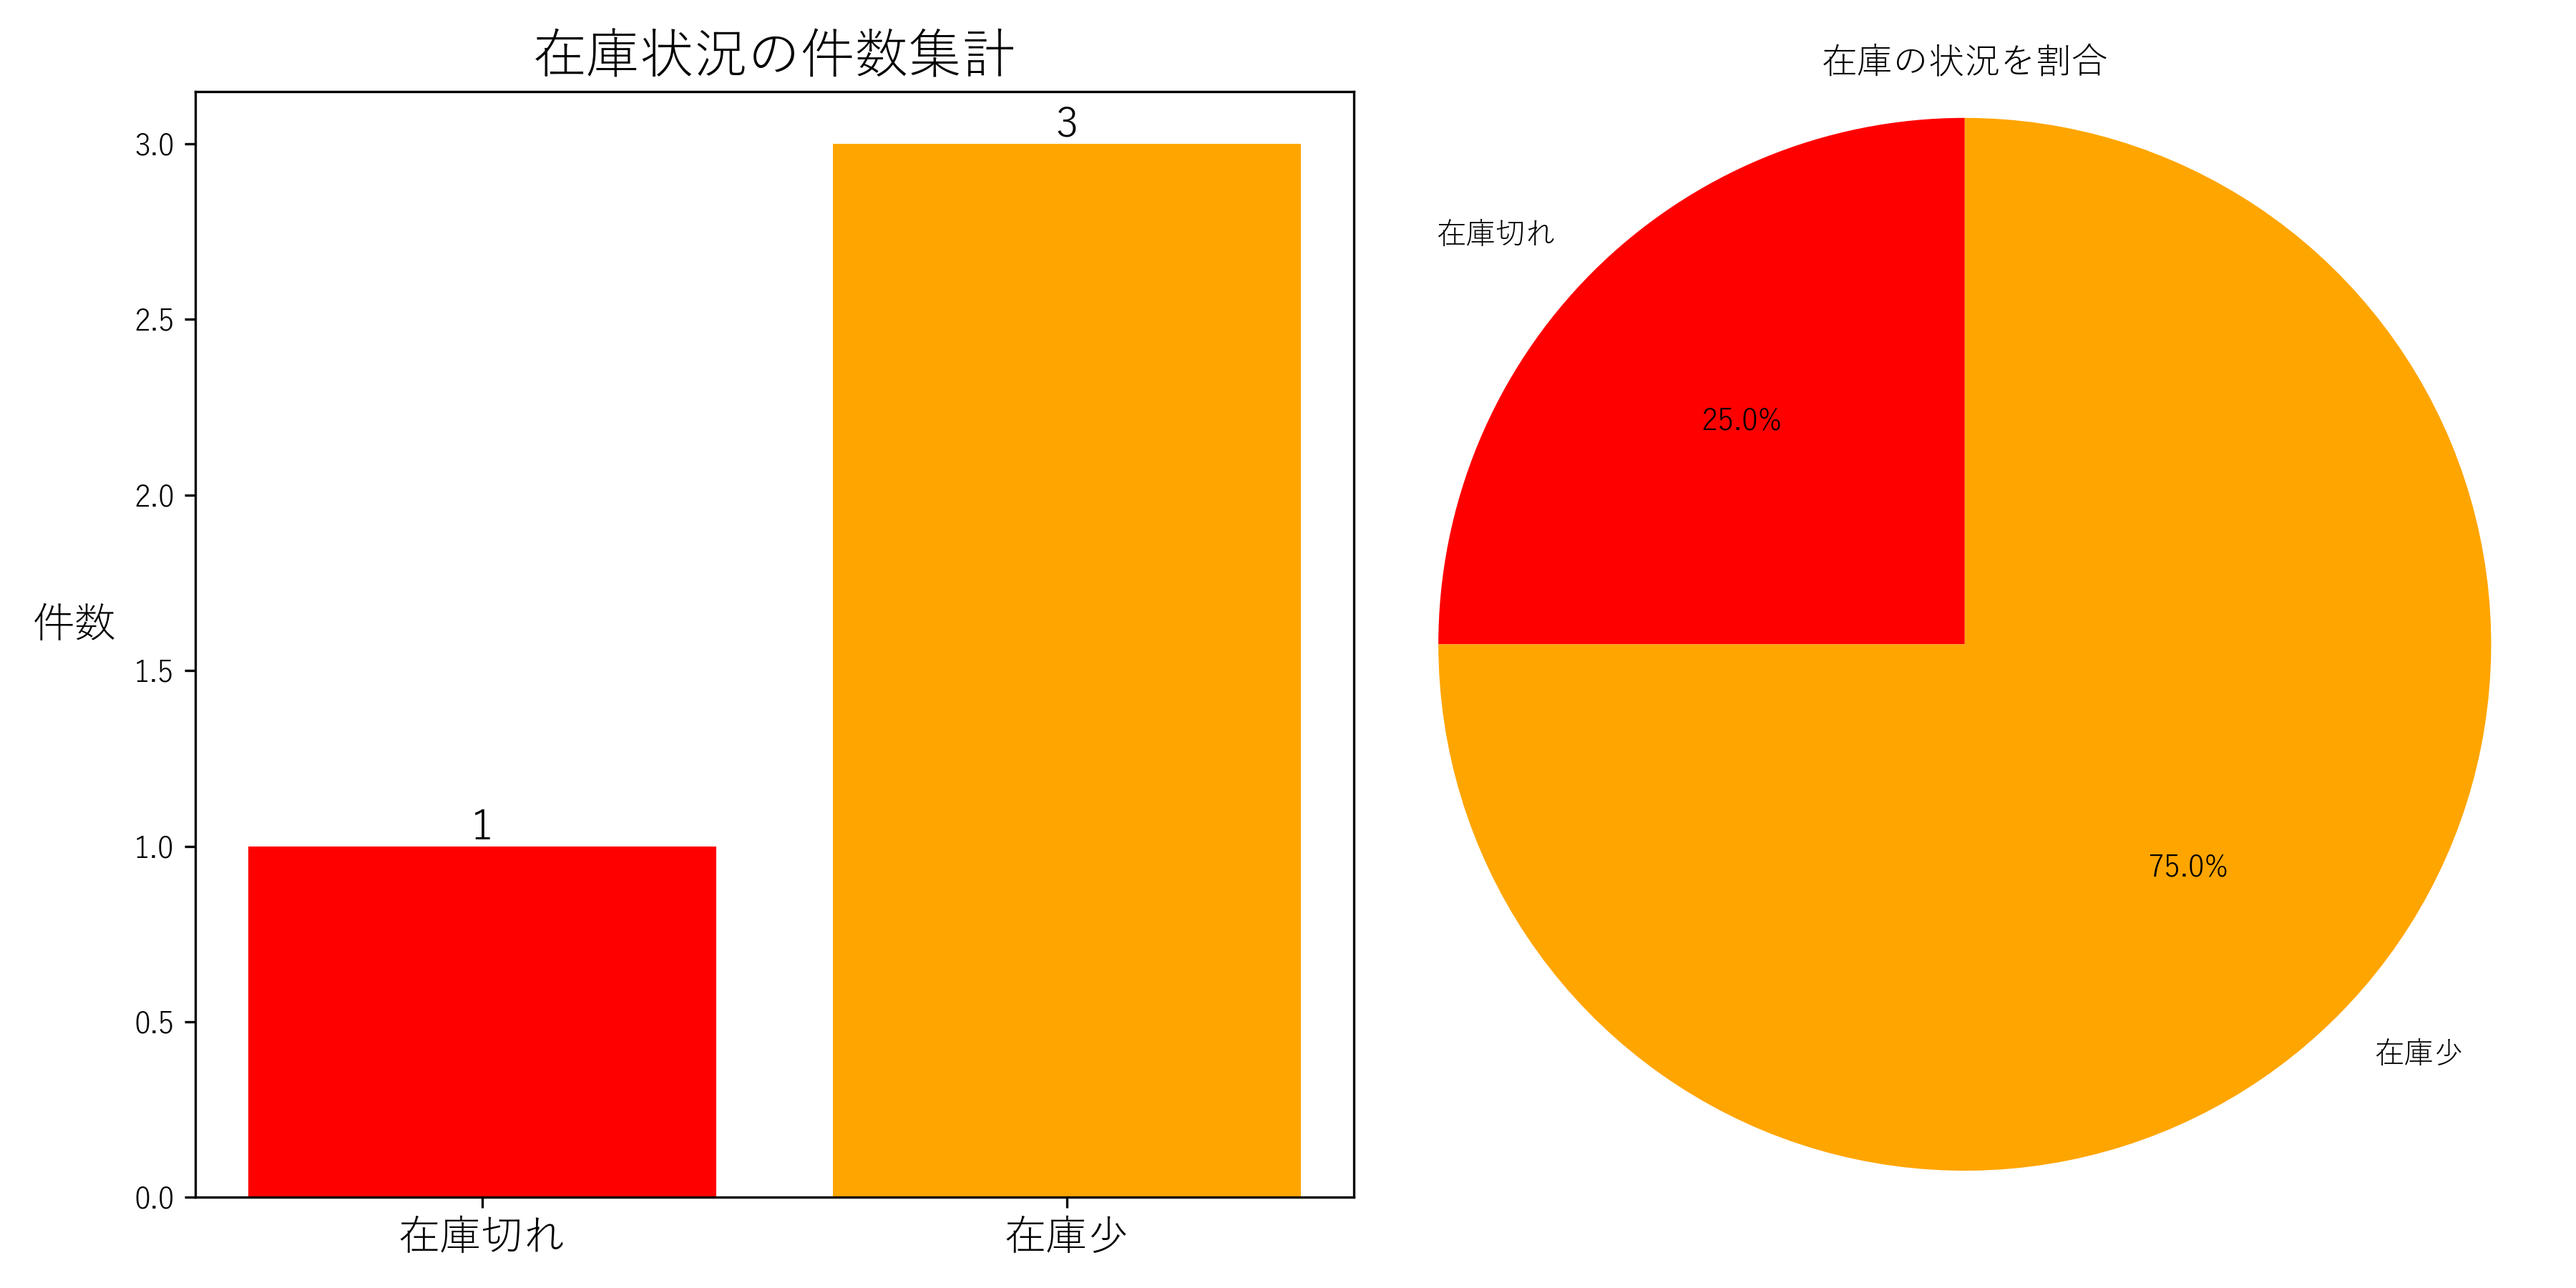
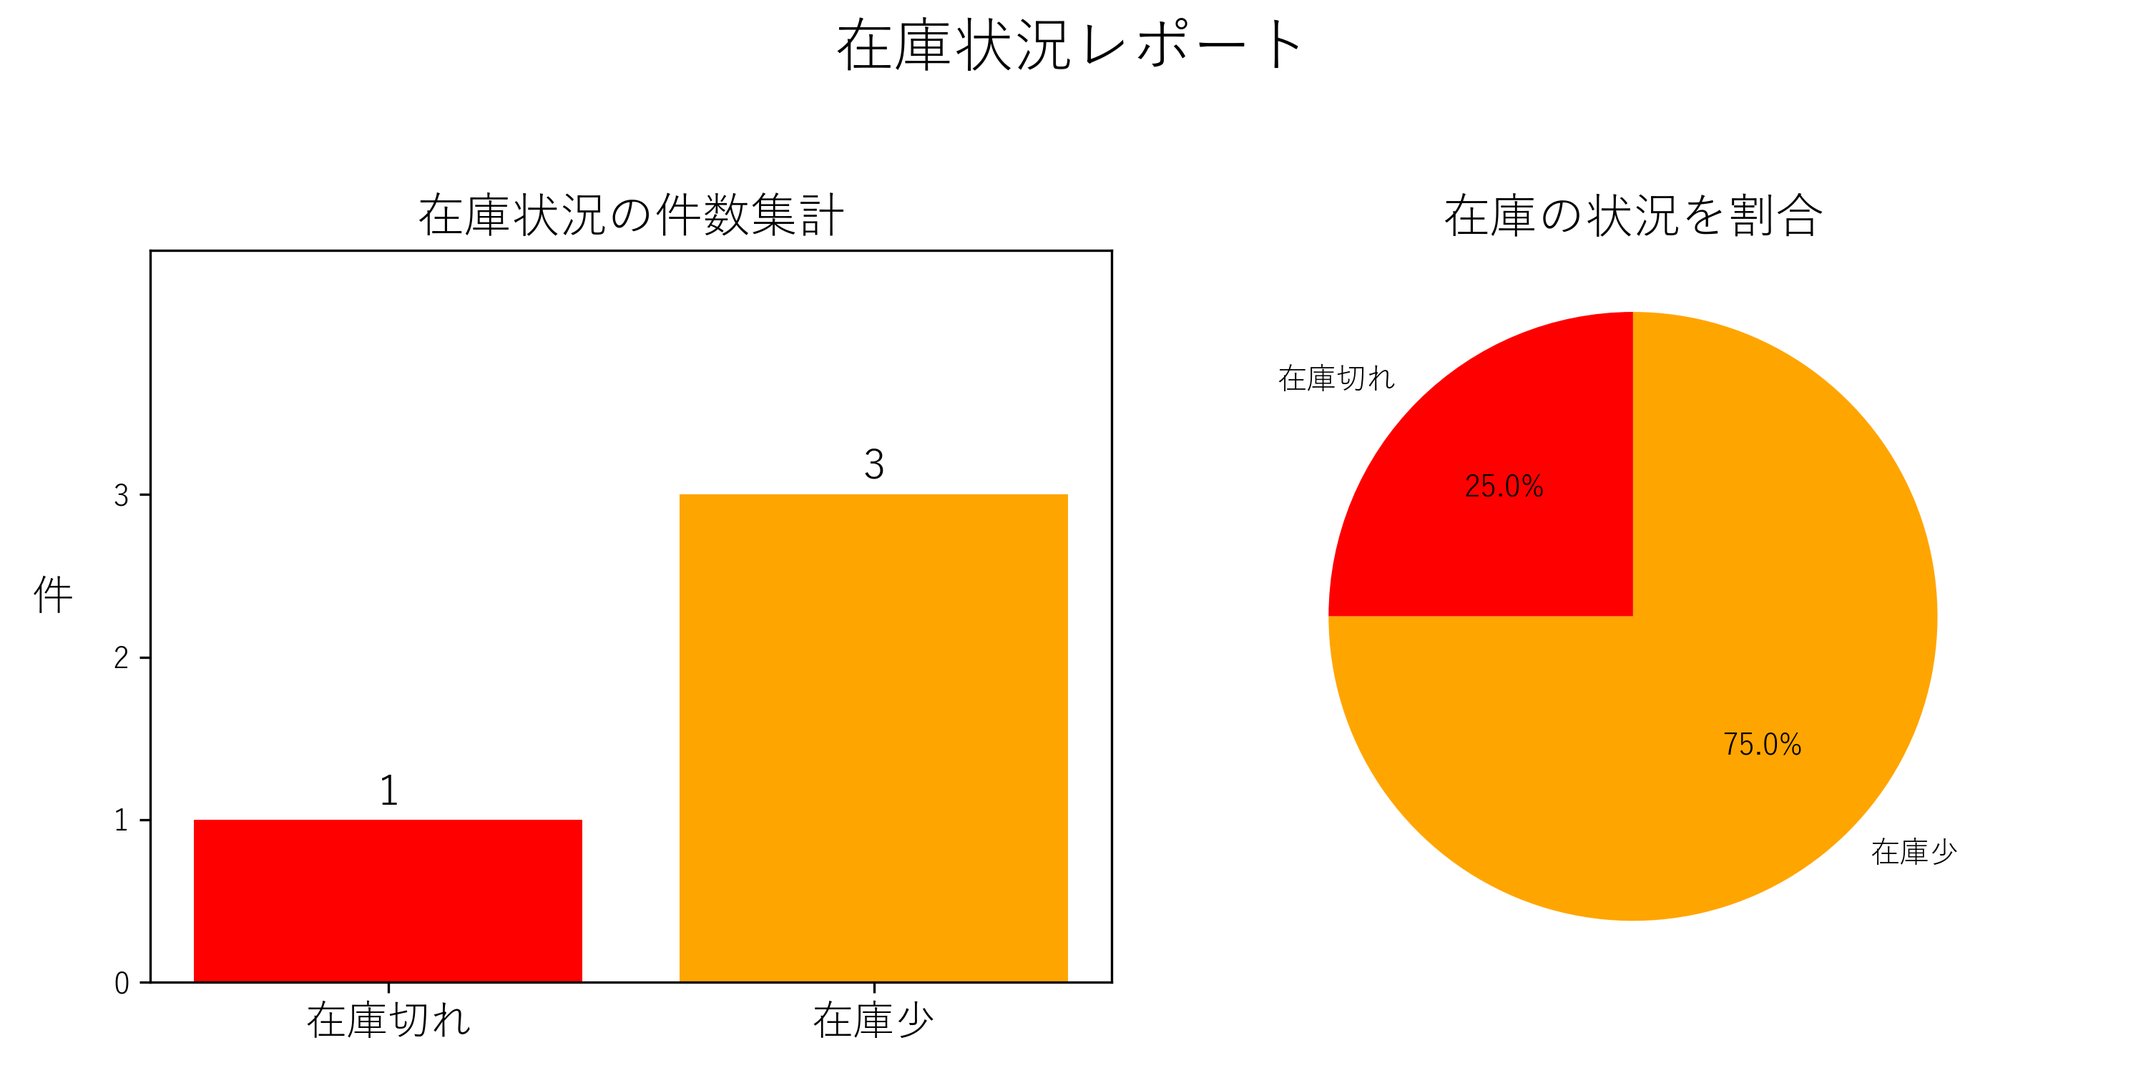
グラフの見た目を調整して最終版を反映

diff --git a/analyze_inventory.py b/analyze_inventory.py
@@ -26,12 +26,15 @@ def save_stock_graph(out_of_stock_count, low_stock_count):
     labels = ["在庫切れ", "在庫少"]
     values = [out_of_stock_count, low_stock_count]
 
-    plt.figure(figsize=(12, 6), dpi=120)  #横に二つ並べるため横長にする
+    plt.figure(figsize=(10, 5), dpi=120)  #横に二つ並べるため横長にする
 
     plt.subplot(1, 2, 1)  #１行２列の１つめ（左）
 
      #棒グラフを作成して棒の情報を受け取る
     bars = plt.bar(labels, values, color=["red", "orange"])  #色指定
+
+    plt.ylim(0, max(values) + 1.5)  #上に余白を作る
+    plt.yticks(range(0, max(values) +1))
 
     plt.xticks(fontsize=14)  #横軸ラベルの文字を大きくする
 
@@ -40,7 +43,7 @@ def save_stock_graph(out_of_stock_count, low_stock_count):
         height = bar.get_height()  #棒の高さ（件数）を取得
         plt.text(
             bar.get_x() + bar.get_width() / 2,  #棒の中央値
-            height,  #棒の高さの位置
+            height + 0.05,  #棒の高さの位置
             f"{int(height)}",  #表示する文字
             ha="center",  #横方向は中央ぞろえ
             va="bottom",  #縦方向は棒の上に置く
@@ -48,8 +51,8 @@ def save_stock_graph(out_of_stock_count, low_stock_count):
         )
 
     #タイトルと軸ラベル
-    plt.title("在庫状況の件数集計", fontsize=18)
-    plt.ylabel("件数", rotation=0, labelpad=20, fontsize=14) #ratation横向き/labelpad左に離す
+    plt.title("在庫状況の件数集計", fontsize=16)
+    plt.ylabel("件", rotation=0, labelpad=20, fontsize=14) #ratation横向き/labelpad左に離す
 
     #円グラフ用の件数データ
     sizes = [out_of_stock_count, low_stock_count]
@@ -65,10 +68,12 @@ def save_stock_graph(out_of_stock_count, low_stock_count):
         colors = ["red", "orange"]  #在庫切れ赤　在庫少オレンジ
     )
 
-    plt.title("在庫の状況を割合")  #タイトル
+    plt.title("在庫の状況を割合", fontsize=16)  #タイトル
     plt.axis("equal")  #円をきれいな丸にする
 
-    plt.tight_layout()  #２つのグラフが重ならないように整える
+    plt.suptitle("在庫状況レポート", fontsize=20)
+
+    plt.tight_layout(rect=[0, 0, 1, 0.93])  #２つのグラフが重ならないように整える
     plt.savefig("inventory_summary.png", dpi=300)  #合体グラフを一枚で保存
 
     plt.show()  #画面に表示
